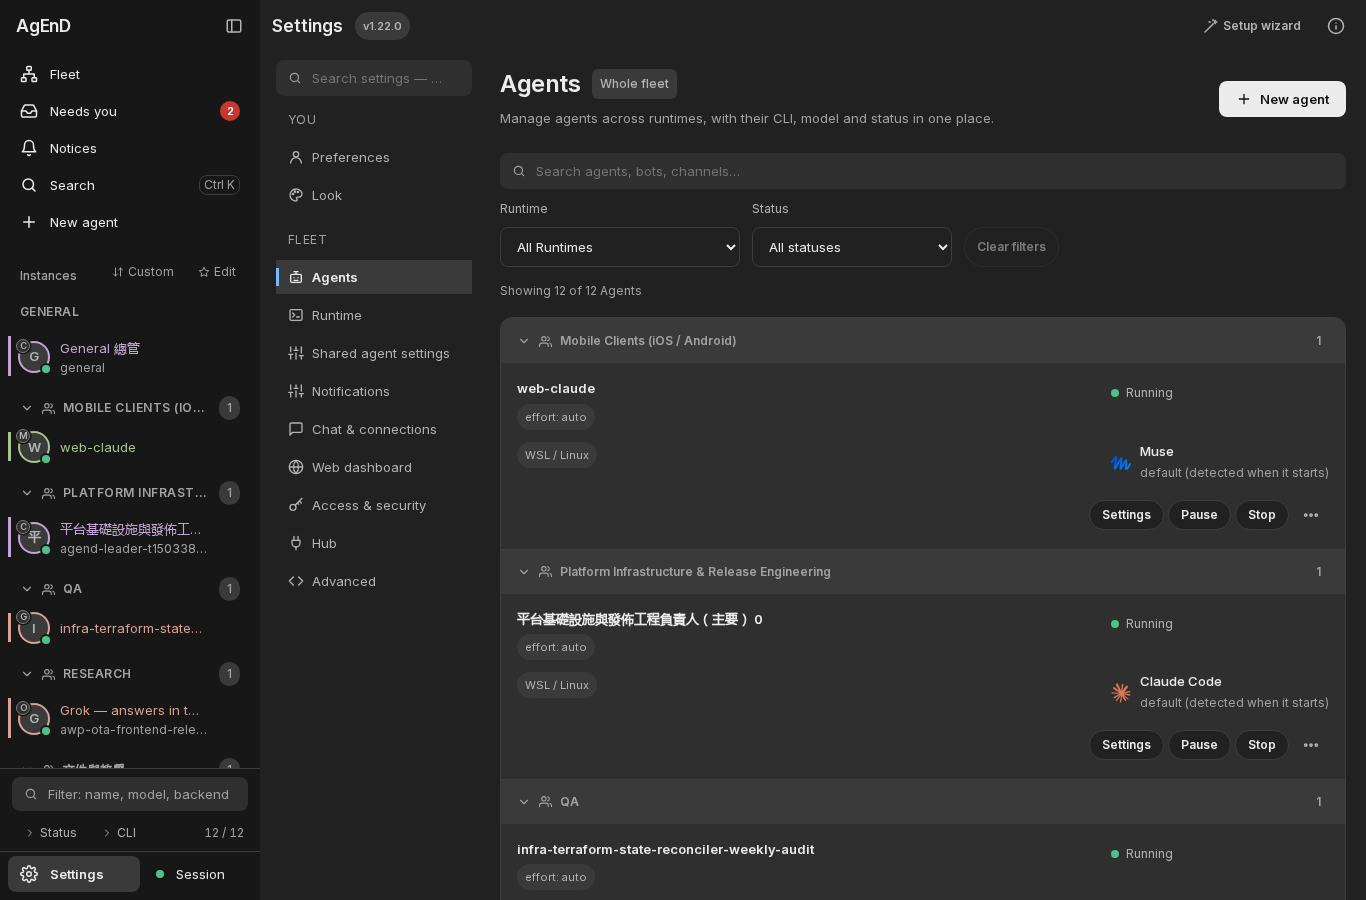
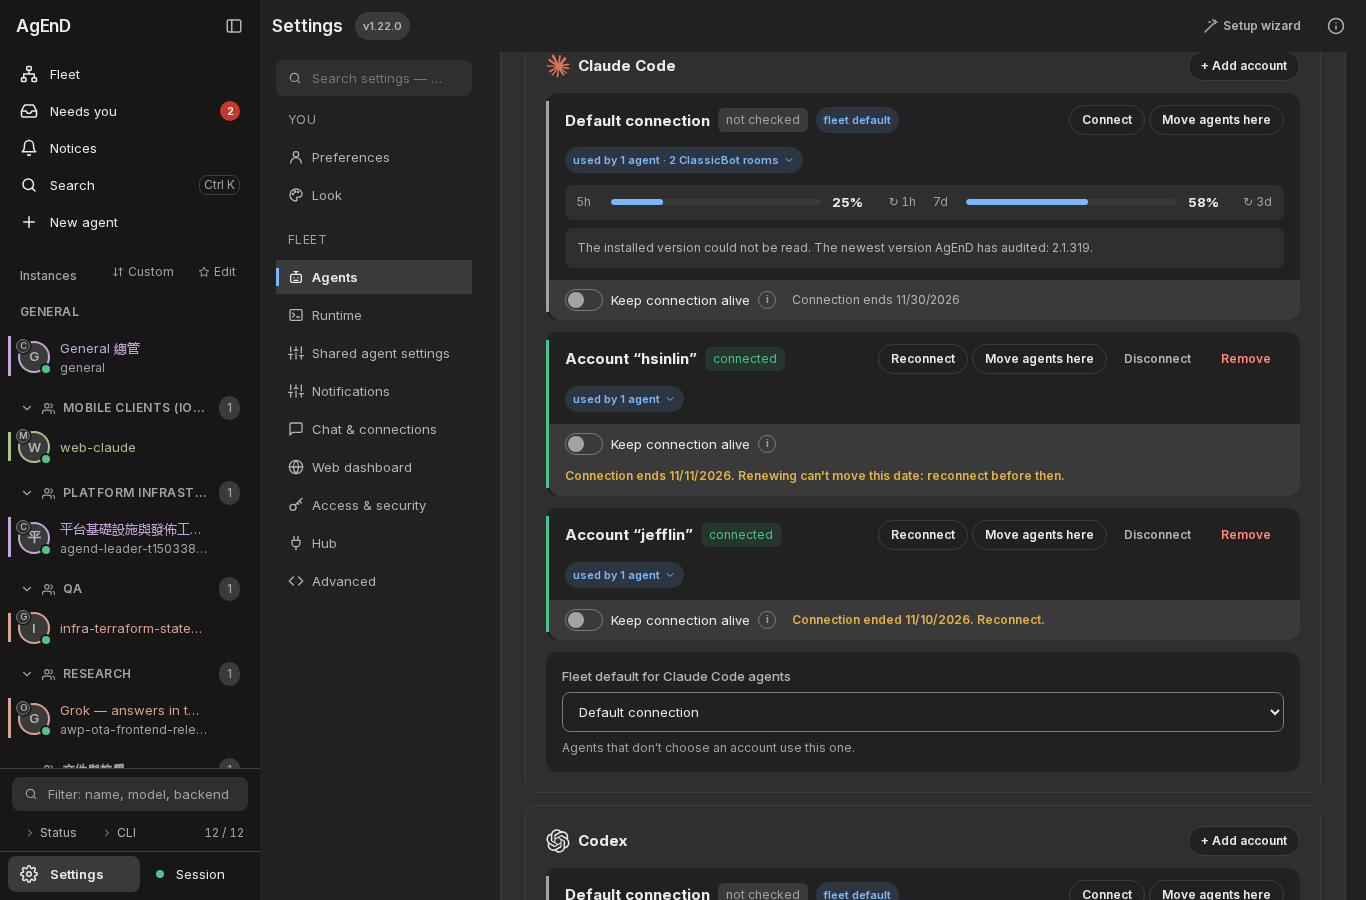
fix(accounts): a sign-in held by a running agent stays "in use" until its restart (#3572, review)
Prism on #3577:
- P2: signInsInUse read only the configured agents and rooms, so after
  a profile was saved but not yet applied the profile the agent still
  runs on dropped out — and with it its end-date warning. It is now the
  union of the configured sign-ins and the launched ones: each host
  agent's lease (now carrying its backend and profile as written), a
  failed start whose CLI may still run, and a running agent with no
  lease (its own launch snapshot) — as keepAliveInUse() counts use;
  Windows agents excluded, once each, a lease of an agent no longer
  running not counted. Test: the save-before-apply case (red without
  the leases, and with stale leases counted).
- P3: the Accounts pictures caught the Agent roster; they now open
  "AI accounts and API keys" and show the Claude Code rows' end dates.

diff --git a/src/fleet-manager.ts b/src/fleet-manager.ts
@@ -21295,7 +21295,8 @@ export class FleetManager implements FleetContext, LifecycleContext, ArchiverCon
    * admitCredentialUse) from the configuration it launched with — never re-resolved against today's defaults. An entry
    * whose start ended without a daemon, or whose daemon is gone, is dropped when next read.
    */
-  private readonly credentialLeases = new Map<string, { key: string; starting: boolean }>();
+  // M-2825 review: with the sign-in as launched (backend, profile as written) — what is in use until the agent restarts.
+  private readonly credentialLeases = new Map<string, { key: string; starting: boolean; backend?: string; profile?: string | null }>();
   /** #3292 review: Keep sign-in alive runs in flight, by sign-in: a start on that sign-in waits for its end. */
   private readonly keepAliveRenewing = new Map<string, Promise<void>>();
   private credentialKey(backend: string, profile: string | null): string { return `${backend}\0${(profile ?? "").toLowerCase()}`; }
@@ -21305,16 +21306,17 @@ export class FleetManager implements FleetContext, LifecycleContext, ArchiverCon
    * Daemon's clone of that config hands its CLI. Never today's defaults: an older config object keeps its own.
    */
   private launchCredentialKey(config: InstanceConfig, backend: string): string {
-    let profile: string | null = null;
-    try { profile = resolveCredentialProfile(config.backend_options?.[backend]); } catch { profile = null; }
-    return this.credentialKey(backend, profile);
+    return this.credentialKey(backend, this.launchCredentialProfile(config, backend));
+  }
+  private launchCredentialProfile(config: InstanceConfig, backend: string): string | null {
+    try { return resolveCredentialProfile(config.backend_options?.[backend]); } catch { return null; }
   }
 
   /**
    * #3313 review r2: failed starts whose CLI was not proven gone keep holding their sign-in (across a retry of the same
    * agent too) until a check finds it ended.
    */
-  private readonly credentialOrphans = new Map<symbol, { key: string; ended: () => Promise<boolean> }>();
+  private readonly credentialOrphans = new Map<symbol, { key: string; ended: () => Promise<boolean>; backend?: string; profile?: string | null }>();
   private orphanCheck: Promise<void> | null = null;
   private recheckCredentialOrphans(): void {
     if (this.orphanCheck || !this.credentialOrphans.size) return;
@@ -21339,7 +21341,7 @@ export class FleetManager implements FleetContext, LifecycleContext, ArchiverCon
       await renewing; assertCurrent();
       key = this.launchCredentialKey(config, backend);
     }
-    const lease = { key, starting: true };
+    const lease = { key, starting: true, backend, profile: this.launchCredentialProfile(config, backend) };
     this.credentialLeases.set(name, lease);
     const drop = () => { if (this.credentialLeases.get(name) === lease) this.credentialLeases.delete(name); };
     return {
@@ -21347,7 +21349,7 @@ export class FleetManager implements FleetContext, LifecycleContext, ArchiverCon
       release: drop,
       current: c => this.launchCredentialKey(c, backend) === key,
       // A failed start whose CLI may still run: the sign-in stays held (by itself, not by the agent's name) until it is seen gone.
-      unknownEnd: ended => { drop(); this.credentialOrphans.set(Symbol(name), { key, ended }); this.recheckCredentialOrphans(); },
+      unknownEnd: ended => { drop(); this.credentialOrphans.set(Symbol(name), { key, ended, backend, profile: lease.profile }); this.recheckCredentialOrphans(); },
     };
   }
 
@@ -21433,16 +21435,30 @@ export class FleetManager implements FleetContext, LifecycleContext, ArchiverCon
   }
 
   /**
-   * M-2825: the host sign-ins in use — each agent's (its effective profile; a paired computer's agents use that computer's
-   * own accounts) and each ClassicBot room's — once each. Whose end date is warned about even when it is not kept alive.
+   * M-2825: the host sign-ins in use, once each — whose end date is warned about even when it is not kept alive:
+   * - each agent's and ClassicBot room's as configured (accountUses: a paired computer's agents use that computer's own);
+   * - #3577 review P2: the one each host agent is starting or running on AS LAUNCHED (its lease; a failed start whose CLI
+   *   may still run; a running agent with no lease, by its own launch snapshot) — a profile saved but not yet applied
+   *   leaves the old one in use until the restart, as keepAliveInUse() counts it.
    */
   private signInsInUse(): Array<{ backend: string; profile: string | null }> {
-    let uses: ReturnType<FleetManager["accountUses"]>;
-    try { uses = this.accountUses(); } catch { return []; }
     const seen = new Set<string>(), out: Array<{ backend: string; profile: string | null }> = [];
-    for (const u of [...uses.agents, ...uses.classic]) {
-      const key = `${u.backend}\0${u.profile ?? ""}`;
-      if (!seen.has(key)) { seen.add(key); out.push({ backend: u.backend, profile: u.profile }); }
+    const add = (backend: string | undefined, profile: string | null | undefined) => {
+      if (!backend) return;
+      const key = this.credentialKey(backend, profile ?? null);
+      if (!seen.has(key)) { seen.add(key); out.push({ backend, profile: profile ?? null }); }
+    };
+    try { const uses = this.accountUses(); for (const u of [...uses.agents, ...uses.classic]) add(u.backend, u.profile); } catch { /* the launched ones below still count */ }
+    for (const [name, lease] of this.credentialLeases) if (lease.starting || this.daemons?.has(name)) add(lease.backend, lease.profile);
+    for (const o of this.credentialOrphans.values()) add(o.backend, o.profile);
+    const defaultBackend = this.fleetConfig?.defaults?.backend ?? "claude-code";
+    for (const [name, daemon] of this.daemons ?? []) {
+      if (this.credentialLeases.has(name)) continue;
+      let snap: InstanceConfig | undefined;
+      try { snap = daemon.getConfigSnapshot?.(); } catch { snap = undefined; }
+      if (!snap || isWindowsInstance(snap)) continue;
+      const backend = snap.backend ?? defaultBackend;
+      add(backend, this.launchCredentialProfile(snap, backend));
     }
     return out;
   }

diff --git a/tests/signin-end-notice-2825.test.ts b/tests/signin-end-notice-2825.test.ts
@@ -131,4 +131,30 @@ describe("FleetManager: the sign-ins in use, warned about in Needs you", () => {
     expect(items.map((i: any) => [i.reason, i.id.replace(/\d+$/, "N"), !!i.signIn])).toEqual([
       ["backend_signin", "keepalive:ending:claude-code:hsinlin:N", true], ["backend_signin", "keepalive:ended:claude-code::N", true]]);
   });
+  it("#3577 review P2: a profile saved but not yet applied — the agent still runs on the old one (as launched), which stays in use and warned about until the restart", async () => {
+    const yaml = (profile: string) => [
+      "health_port: 0", "instances:",
+      `  cc:\n    working_directory: ${join(dir, "w")}\n    backend: claude-code\n    backend_options:\n      claude-code:\n        credential_profile: ${profile}`,
+      `  cc2:\n    working_directory: ${join(dir, "w")}\n    backend: claude-code`,
+    ].join("\n") + "\n";
+    // cc started on hsinlin (a real lease, as a start takes it), and is running.
+    const launched = fm.fleetConfig.instances.cc;
+    const held = await fm.admitCredentialUse("cc", launched, "claude-code", () => {});
+    held.published();
+    fm.daemons.set("cc", { getConfigSnapshot: () => launched });
+    // Then its profile is saved as "spare" (not applied: no restart).
+    writeFileSync(join(dir, "fleet.yaml"), yaml("spare")); fm.loadConfig(join(dir, "fleet.yaml"));
+    claudeCreds(join(dir, "credential-profiles", "claude-code", "spare"), T + 30 * 24 * 3_600_000);
+    expect(fm.signInsInUse()).toEqual([{ backend: "claude-code", profile: "spare" }, { backend: "claude-code", profile: null }, { backend: "claude-code", profile: "hsinlin" }]);
+    expect(fm.keepAliveAttention().map((l: any) => [l.profile, l.kind])).toEqual([[null, "ended"], ["hsinlin", "ending"]]);
+    // Restarted on spare: the old lease is gone, and so is hsinlin's line (spare's end is a month off).
+    held.release(); fm.daemons.delete("cc");
+    expect(fm.signInsInUse().map((u: any) => u.profile)).toEqual(["spare", null]);
+    expect(fm.keepAliveAttention().map((l: any) => l.profile)).toEqual([null]);
+    // A lease left by an agent no longer running (not starting, no daemon) is not in use.
+    const stale = await fm.admitCredentialUse("cc", launched, "claude-code", () => {}); stale.published();
+    expect(fm.signInsInUse().map((u: any) => u.profile)).toEqual(["spare", null]);
+    stale.release();
+    writeFileSync(join(dir, "fleet.yaml"), yaml("hsinlin")); fm.loadConfig(join(dir, "fleet.yaml"));
+  });
 });

diff --git a/docs/screenshots/signin-end-3572/README.md b/docs/screenshots/signin-end-3572/README.md
@@ -9,7 +9,7 @@ Drawn in the real web app on the shared smoke fixture (the product's own web ser
   - profile `jefflin`, which ended 2 h ago.
 - Two agents use `hsinlin` and `jefflin`. Keep-alive is off for all three.
 
-- `*-accounts`: Settings → Agent → AI accounts. Each row's end date, unchanged by this PR (#3292 already reads it from the file); identical before and after.
+- `after-*-accounts`: Settings → Agent → AI accounts and API keys (opened), the Claude Code card. Each row's end date: the default "ends 2026/11/30"; `hsinlin` "ends 2026/11/11 … reconnect before then" (warning colour); `jefflin` "ended 2026/11/10 … reconnect". This part is unchanged by this PR (#3292 already reads it from the file), so there's no before picture of it. (#3577 review P3: the first shots caught the Agent roster above it.)
 - `*-needs`: Needs you. **Before** (`release/2.3.5-alpha`): nothing, because keep-alive is off. **After**: "Claude Code · hsinlin: this sign-in ends by 2026-11-11 01:57 …" and "Claude Code · jefflin: this sign-in reached its end date (2026-11-10 14:57) …", each with Sign in. The same lines go into General's live Needs-you message in chat.
 
 Cases: desk light zh-TW, desk dark EN, phone light zh-TW.
